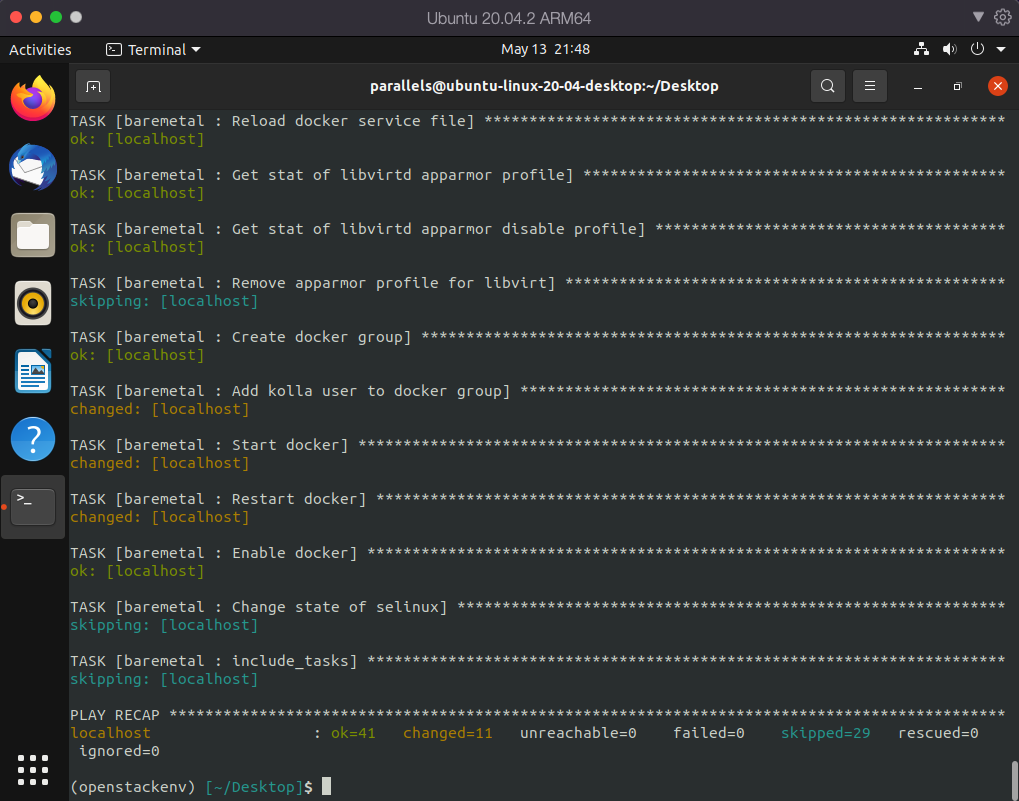
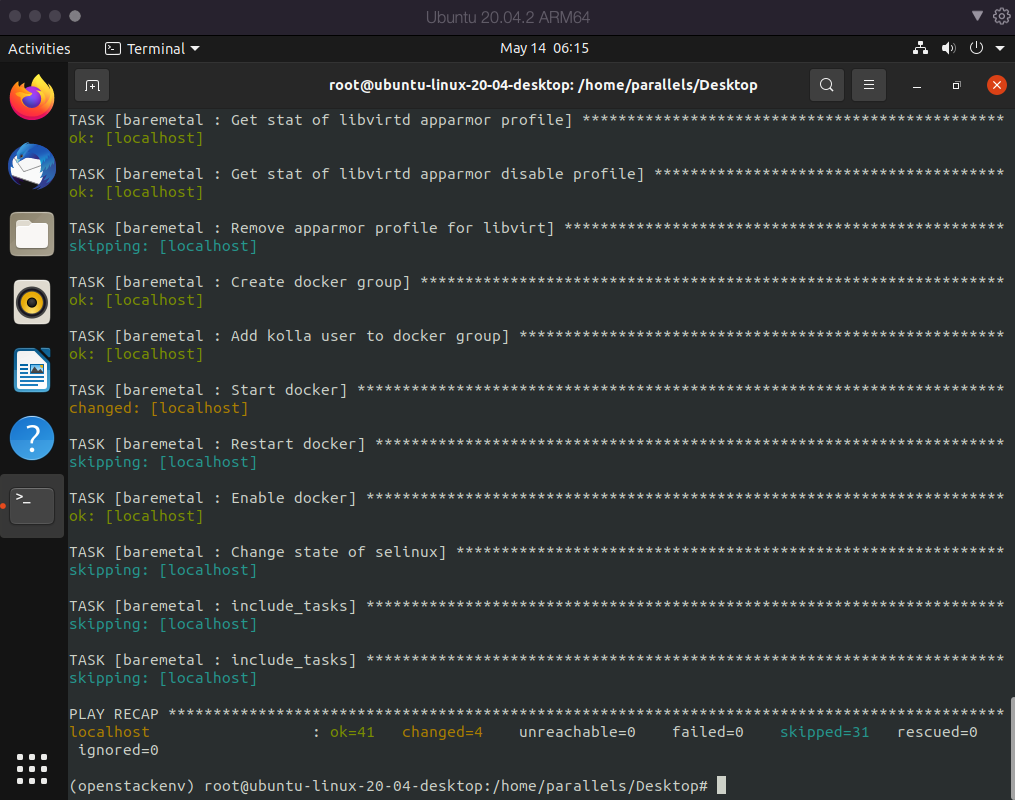
add kolla-build

diff --git a/main.py b/main.py
@@ -1,0 +1,16 @@
+# This is a sample Python script.
+
+# Press ⌃R to execute it or replace it with your code.
+# Press Double ⇧ to search everywhere for classes, files, tool windows, actions, and settings.
+
+
+def print_hi(name):
+    # Use a breakpoint in the code line below to debug your script.
+    print(f'Hi, {name}')  # Press ⌘F8 to toggle the breakpoint.
+
+
+# Press the green button in the gutter to run the script.
+if __name__ == '__main__':
+    print_hi('PyCharm')
+
+# See PyCharm help at https://www.jetbrains.com/help/pycharm/

diff --git a/Practice-1/Vo-Minh-Thien-Long/OpenStack-AIO/README.md b/Practice-1/Vo-Minh-Thien-Long/OpenStack-AIO/README.md
@@ -19,16 +19,19 @@
 - [2. Setting up our VM](#requires-setting)
 - [3. Verify infrastructure](#requires-verify)
 
-[IV. Instructions](#instructions)
+[IV. Install instructions](#instructions)
 - [1. Install dependencies](#instructions-install)
 - [2. Install Ansible](#instructions-ansible)
-- [3. Install and set up Kolla-Ansible](#instructions-kolla-ansible)
+- [3. Install and set up Kolla Ansible](#instructions-kolla-ansible)
 - [4. Install OpenStack CLI](#instructions-openstack-cli)
+- [5. Install Kolla](#instructions-kolla)
+
 
 [V. Configuration](#configuration)
 - [1. Configure Kolla Ansible](#configure-kolla-ansible)
 - [2. Configure Ansible](#configure-ansible)
-
+- [3. Build container images for ARM](#configure-arm)
+- 
 [VI. Pre-deploy](#predeploy)
 
 [VII. Deployment](#deployment)
@@ -352,18 +355,18 @@ interfaces.
 
 I will use 2 network interfaces:
 
-- eth0: `NAT` - **10.211.55.6/24** (for Internal network)
+- eth0: **10.211.55.6/24** (for Internal network)
 
-- eth1: `Host` - **10.211.55.8/24** (for External/Provider network)
+- eth1: **10.211.55.8/24** (for External/Provider network)
 
 #### Summary
 
-| Specification(s) | Require | Personal VM (by default) |  Personal VM (after config) |                                                                                                                
-|------------------|---------|-------------------------|-----|
-| CPU | 4 cores | 2 cores                 | 4 cors |
-| RAM | 8 GB    | 2 GB                    | 8 GB |
-| Disks | 2       | 1                       | 2 |
-| Network | 2 NICs  | 1 NIC                   | 2 NICs |
+| Specification(s) | Require | Personal VM (by default) | Personal VM (after config) |                                                                                                                
+|------------------|---------|-------------------------|----------------------------|
+| CPU | 4 cores | 2 cores                 | 4 cores                    |
+| RAM | 8 GB    | 2 GB                    | 8 GB                       |
+| Disks | 2       | 1                       | 2                          |
+| Network | 2 NICs  | 1 NIC                   | 2 NICs                     |
 
 Now, we have met the requirements of to run `all-in-one` **OpenStack**.
 
@@ -410,67 +413,41 @@ su
 <a name='instructions-install'></a> 
 ### 1. Install dependencies
 
-1/ Update `apt`
+1/ Update the package sources list
 
-Update the package index by using `apt update`.
+Update the package sources list to get the latest list of available packages 
+in the repositories by using `apt update`.
 
 ```shell
 apt update
 ```
 
-2/ Install required dependencies
+2/ Updates all the packages
 
-We will install required dependencies by `apt install`.
+Update all the packages presently installed in our Linux system to their 
+latest versions by using `apt upgrade`.
+
+```shell
+apt upgrade
+```
+
+3/ Install required dependencies
+
+First, in case you didn't install `git` or `docker`, 
+install it by `apt install`.
+
+```shell
+apt git docker docker-compose
+```
+
+
+Then, we will install other required dependencies.
 
 ```shell
 apt install python3-dev python3-pip libffi-dev gcc libssl-dev
 ```
 
-3/ Install `virtualenv` for **virtual environment**
-
-
-**Virtual environment** is a folder structure that gives you everything you need to run a 
-lightweight yet isolated environment.
-
-We will install the dependencies using virtual environment, so use `venv` 
-to create a virtual environment.
-
-Install `virtualenv`:
-
-```shell
-apt install python3-venv
-```
-
-4/ Create **virtual environment**
-
-In this practice, my `virtualenv` will be located at **./openstackenv**
-
-```shell
-python3 -m venv ./openstackenv
-```
-
-5/ Activate virtual environment
-
-The virtual environment should be activated before running any commands that depend on 
-packages installed in it.
-
-In order to activate virtual environment, we use `source`.
-
-```shell
-source ./openstackenv/bin/activate
-```
-
-If you successfully activate environment, before user and path will have `(openstackenv)`.
-
-<div align="center">
-  <img width="1000" src="assets/setup-3.png" alt="Check (openstackenv)">
-</div>
-
-<div align="center">
-  <i>Check is there <strong>(openstackenv)</strong>.</i>
-</div>
-
-6/ Upgrade `pip`
+4/ Upgrade `pip`
 
 Upgrade `pip` to the latest version by `-U` (`--upgrade`) option.
 
@@ -493,7 +470,7 @@ pip install 'ansible<5.0'
 Install `kolla-ansible` and its dependencies  by using `pip` in virtual environment.
 
 ```shell
-pip install git+https://opendev.org/openstack/kolla-ansible@stable/xena  
+pip install git+https://opendev.org/openstack/kolla-ansible@stable/xena
 ```
 
 <a name='instructions-openstack-cli'></a> 
@@ -502,6 +479,13 @@ pip install git+https://opendev.org/openstack/kolla-ansible@stable/xena
 ```shell
 pip install python-openstackclient python-glanceclient python-neutronclient
 ```
+
+<a name='instructions-kolla-build'></a> 
+### 3. Build container images for ARM by Kolla Build
+
+Sự khác biệt giữa Kolla và kolla-ansible là Kolla cung cấp công cụ để build images cho các dịch vụ OpenStack trên nhiều nền tảng linux với kiến trúc chip khác nhau. Kolla-ansible cung cấp công cụ để triển khai các images được xây dựng bằng Kolla. Do đó, images có thể được tạo và xây dựng lại bất kỳ lúc nào thông qua việc sử dụng lệnh kolla-build.
+
+
 
 <a name='configuration'></a> 
 ## V. Configuration 
@@ -525,6 +509,16 @@ chown $USER:$USER /etc/kolla
 cp -r ./openstackenv/share/kolla-ansible/etc_examples/kolla/* /etc/kolla
 ```
 
+3/ Generate password
+
+Passwords used in our deployment are stored in **/etc/kolla/passwords.yml** file. 
+All passwords are blank in this file and have to be filled either manually or by
+running random password generator
+
+```shell
+kolla-genpwd
+```
+
 3/ Copy `all-in-one` inventory files to the current directory.
 
 ```shell
@@ -542,15 +536,40 @@ mkdir -p /etc/ansible
 
 2/ Add the following options to the Ansible configuration file **/etc/ansible/ansible.cfg**
 
+Open and edit `ansible.cfg` in **/etc/ansible/ansible.cfg** by using `gedit` (in my opion, it is easier to edit the
+file than `vi` or `nano`).
+
 ```shell
-config="[defaults]\nhost_key_checking=False\npipelining=True\nforks=100"
-echo -e $config > /etc/ansible/ansible.cfg
+gedit /etc/ansible/ansible.cfg
 ```
+
+The content of `global.yml`:
+
+```text
+[defaults]
+host_key_checking=False
+pipelining=True
+forks=100
+```
+
+<a name='configure-arm'></a> 
+### 3. Build container images for ARM by Kolla Build
+
+Build images of  OpenStack's services in Ubuntu by `kolla-build`
+
+```shell
+kolla-build -b ubuntu
+```
+
+**Note**: In case you got `403` HTTP status error when build image, 
+please consider using **VPN**.
+Because currently I am in Russia, so some images can't directly install, 
+and I have to use **VPN** instead.
 
 <a name='predeploy'></a> 
 ## VI. Pre-deploy
 
-1/ Custom inventory file
+### 1. Custom inventory file
 
 In this practice, I just use the default sample `all-in-one` as inventory file.
 However, you could change it as your demand, or use `multinode` in case you want to deploy
@@ -563,8 +582,7 @@ is now in your working directory.)
 more all-in-one
 ``` 
 
-
-2/ Check configurations
+### 2. Check configurations
 
 ```shell
 ansible -i all-in-one all -m ping
@@ -582,13 +600,27 @@ Don't worry about the `[WARNING]`, there is `-` character in group name in `all-
 but it doesn't have any affect to us.
 
 
-3/ Create diskspace partition for `Cinder`
+### 3. Create diskspace partition for `Cinder`
+
+1/ Install **Logical Volume Manager**
+
+If you didn't install `lvm2` (for Logical Volume Manager),
+you need to install it to use `pvcreate` and `vgcreate`.
+
+
+```shell
+apt instal lvm2
+```
+
+2/ Create physical volume
 
 Use `pvcreate` to create a physical volume for **Cinder** in `/dev/sdb`.
 
 ```shell
 pvcreate /dev/sdb
 ```
+
+3/ Create volume group
 
 Then `vgcreate` to create a volume group `cinder-volume` in disk `/dev/sdb`.
 
@@ -606,8 +638,7 @@ vgcreate cinder-volumes /dev/sdb
 
 4/ Configurate `global.yml`
 
-Open and edit `globals.yml` in **/etc/kolla** by using `gedit` (in my opion, it is easier to edit the
-file than `vi` or `nano`).
+Open and edit `globals.yml` in **/etc/kolla** by using `gedit`.
 
 ```shell
 gedit /etc/kolla/globals.yml
@@ -737,14 +768,9 @@ kolla-ansible -i all-in-one pull
 
 [6] [Config globals.yml](https://github.com/openstack/kolla-ansible/blob/master/etc/kolla/globals.yml)
 
-[6] [Viettel Digital Talent program 2021 - OpenStack](https://github.com/vietstacker/Viettel-Digital-Talent-Program-2021/tree/main/Phase-1-Practices/Week-3)
+[7] [Quick start with Kolla Ansible Xena](https://docs.openstack.org/kolla-ansible/xena/user/quickstart.html)
 
+[8] [OpenStack on ARM64](https://cloudbase.it/openstack-on-arm64-part-1/)
 
-sudo pip3 install -U 'ansible>=4,<6'
-sudo pip3 install git+https://opendev.org/openstack/kolla-ansible@stable/yoga
+[9] [Viettel Digital Talent program 2021 - OpenStack](https://github.com/vietstacker/Viettel-Digital-Talent-Program-2021/tree/main/Phase-1-Practices/Week-3)
 
-
-sudo mkdir -p /etc/kolla
-sudo chown $USER:$USER /etc/kolla
-cp -r ./openstackenv/share/kolla-ansible/etc_examples/kolla/* /etc/kolla
-cp ./openstackenv/share/kolla-ansible/ansible/inventory/* .
